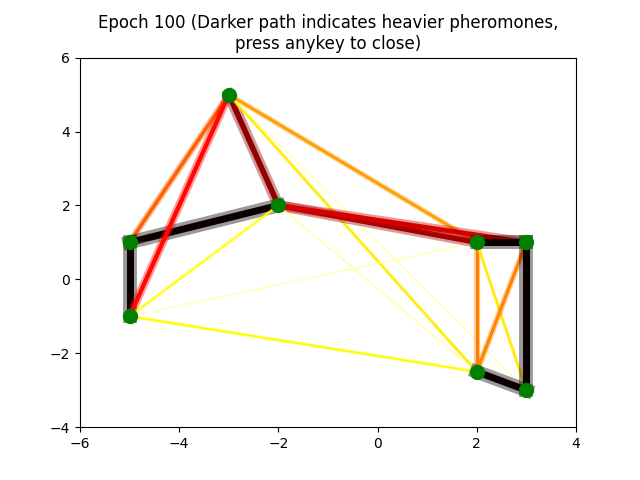
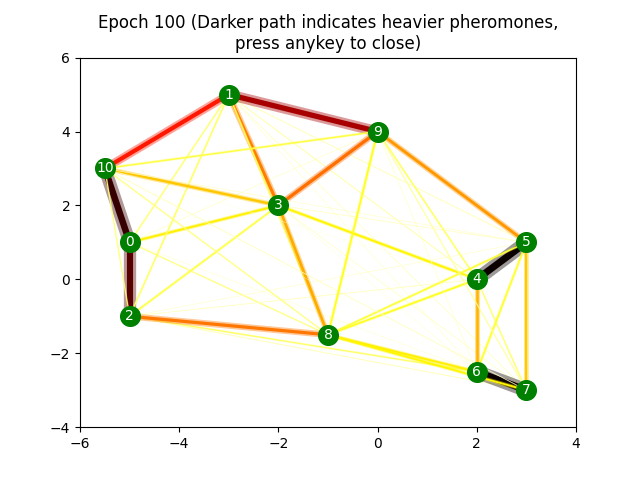
Let ant return to origin, show label on nodes.

Changed region(s): [[0.125, 0.1562, 0.8438, 0.8438], [0.7188, 0.4062, 0.75, 0.4375], [0.6875, 0.375, 0.7188, 0.4062]]

diff --git a/ant_scratch.py b/ant_scratch.py
@@ -92,8 +92,10 @@ class AntColony():
         for ant in self.ants:
             # Ant Pheromone Contribution initialized as zeros.
             pheromone_contrib = np.zeros((self.map.n, self.map.n))
-            ant_travel_total = np.sum(self.map.dm[ant.route[:-1], ant.route[1:]])
-            pheromone_contrib[ant.route[:-1], ant.route[1:]] = \
+            start_ps = ant.route[:]
+            end_ps = np.concatenate((ant.route[1:], ant.route[:1]))
+            ant_travel_total = np.sum(self.map.dm[start_ps, end_ps])
+            pheromone_contrib[start_ps, end_ps] = \
                 self.q / ant_travel_total
             ### The code below will lead to kind of greed algorithm
             # for curr_node, next_node in zip(ant.route, ant.route[1:]):
@@ -141,7 +143,11 @@ class AntColony():
                 plt.plot([spoint[0], epoint[0]], [spoint[1], epoint[1]], color=(*(color[:3]), 0.4), 
                         linestyle = '-', linewidth=10 * ph_level, zorder=0)
         # Plot nodes
-        plt.scatter(self.map.points[:, 0], self.map.points[:, 1], s=100, color="green", zorder=1)
+        plt.scatter(self.map.points[:, 0], self.map.points[:, 1], s=200, color="green", zorder=1)
+        # Plot number on nodes
+        for n in range(self.map.n):
+            plt.text(*self.map.points[n], str(n), color="white",
+                horizontalalignment='center', verticalalignment='center',)
         if title is not None:
             plt.title(title)
         if not remain:
@@ -153,7 +159,7 @@ class AntColony():
 
 # Initialize maps with nodes
 # Distances are the L2 norm on the plane
-num_ant = 20
+num_ant = 70
 phe_q = 1000 / num_ant
 epochs = 100
 points = np.array([
@@ -161,10 +167,13 @@ points = np.array([
     [-3, 5],
     [-5, -1],
     [-2, 2],
-    [2, 1],
+    [2, 0],
     [3, 1],
     [2, -2.5],
-    [3, -3]
+    [3, -3],
+    [-1, -1.5],
+    [0,4],
+    [-5.5, 3],
 ])
 num_points = points.shape[0]
 colony_map = Map(points)
@@ -176,7 +185,7 @@ for e in tqdm(range(epochs)):
     ac.generateSol()
     ac.updatePheromones()
     print(ac.evaluate(min=np.min, mean=np.mean, max=np.max))
-    print(ac.current_best_route)
+    print("Current best route: ", ac.current_best_route)
     if e == epochs-1:
         ac.visualize(title = f"Epoch {e+1} (Darker path indicates heavier pheromones,\npress anykey to close)", 
                     remain = True)
